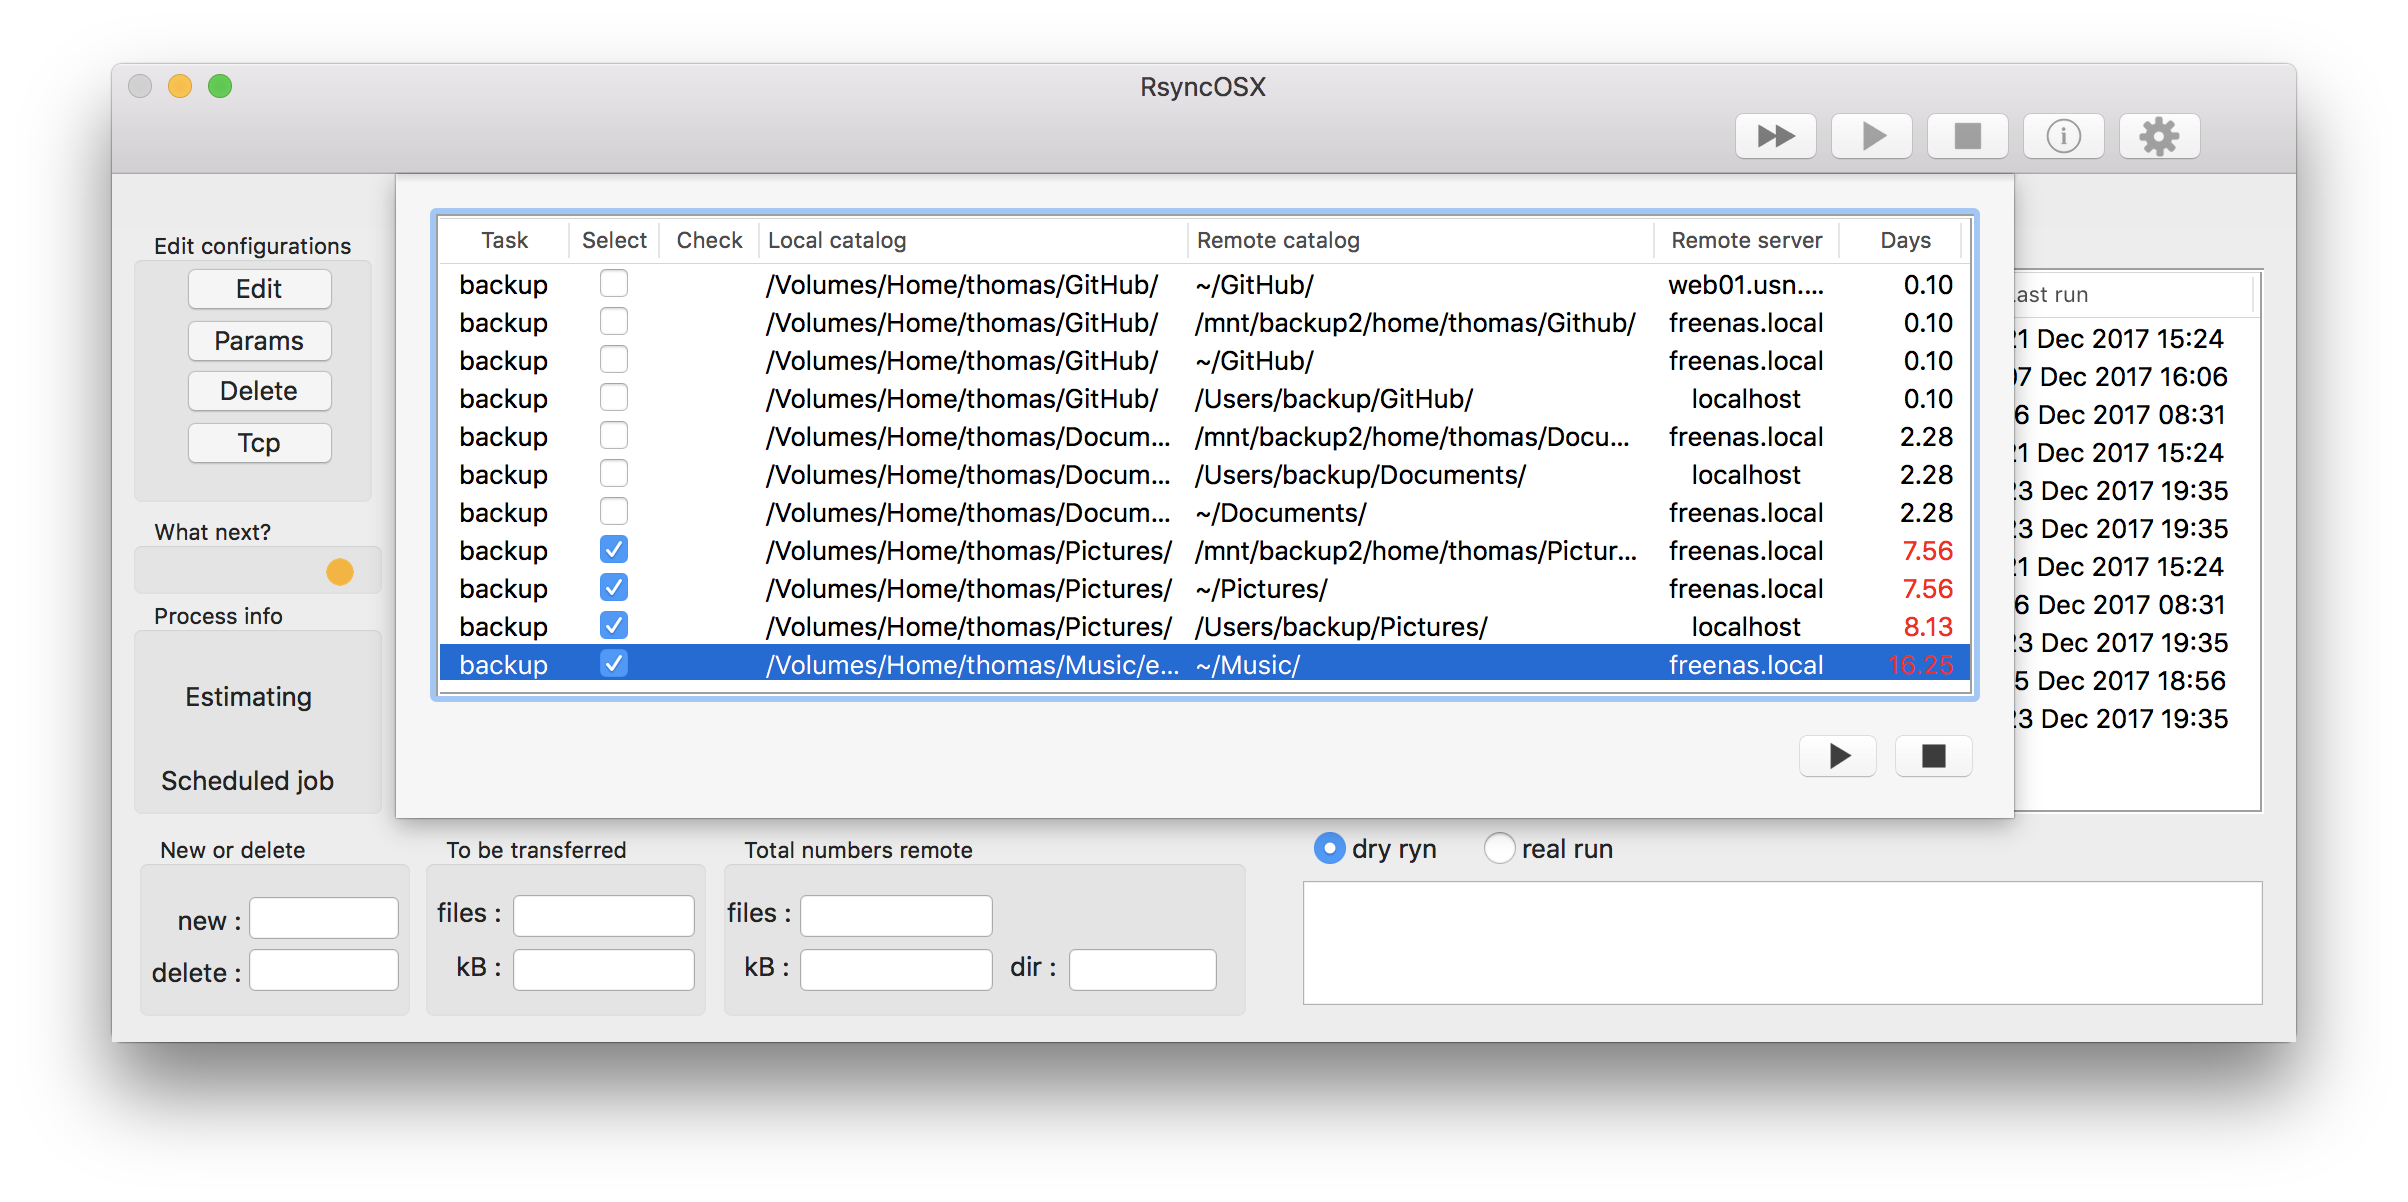
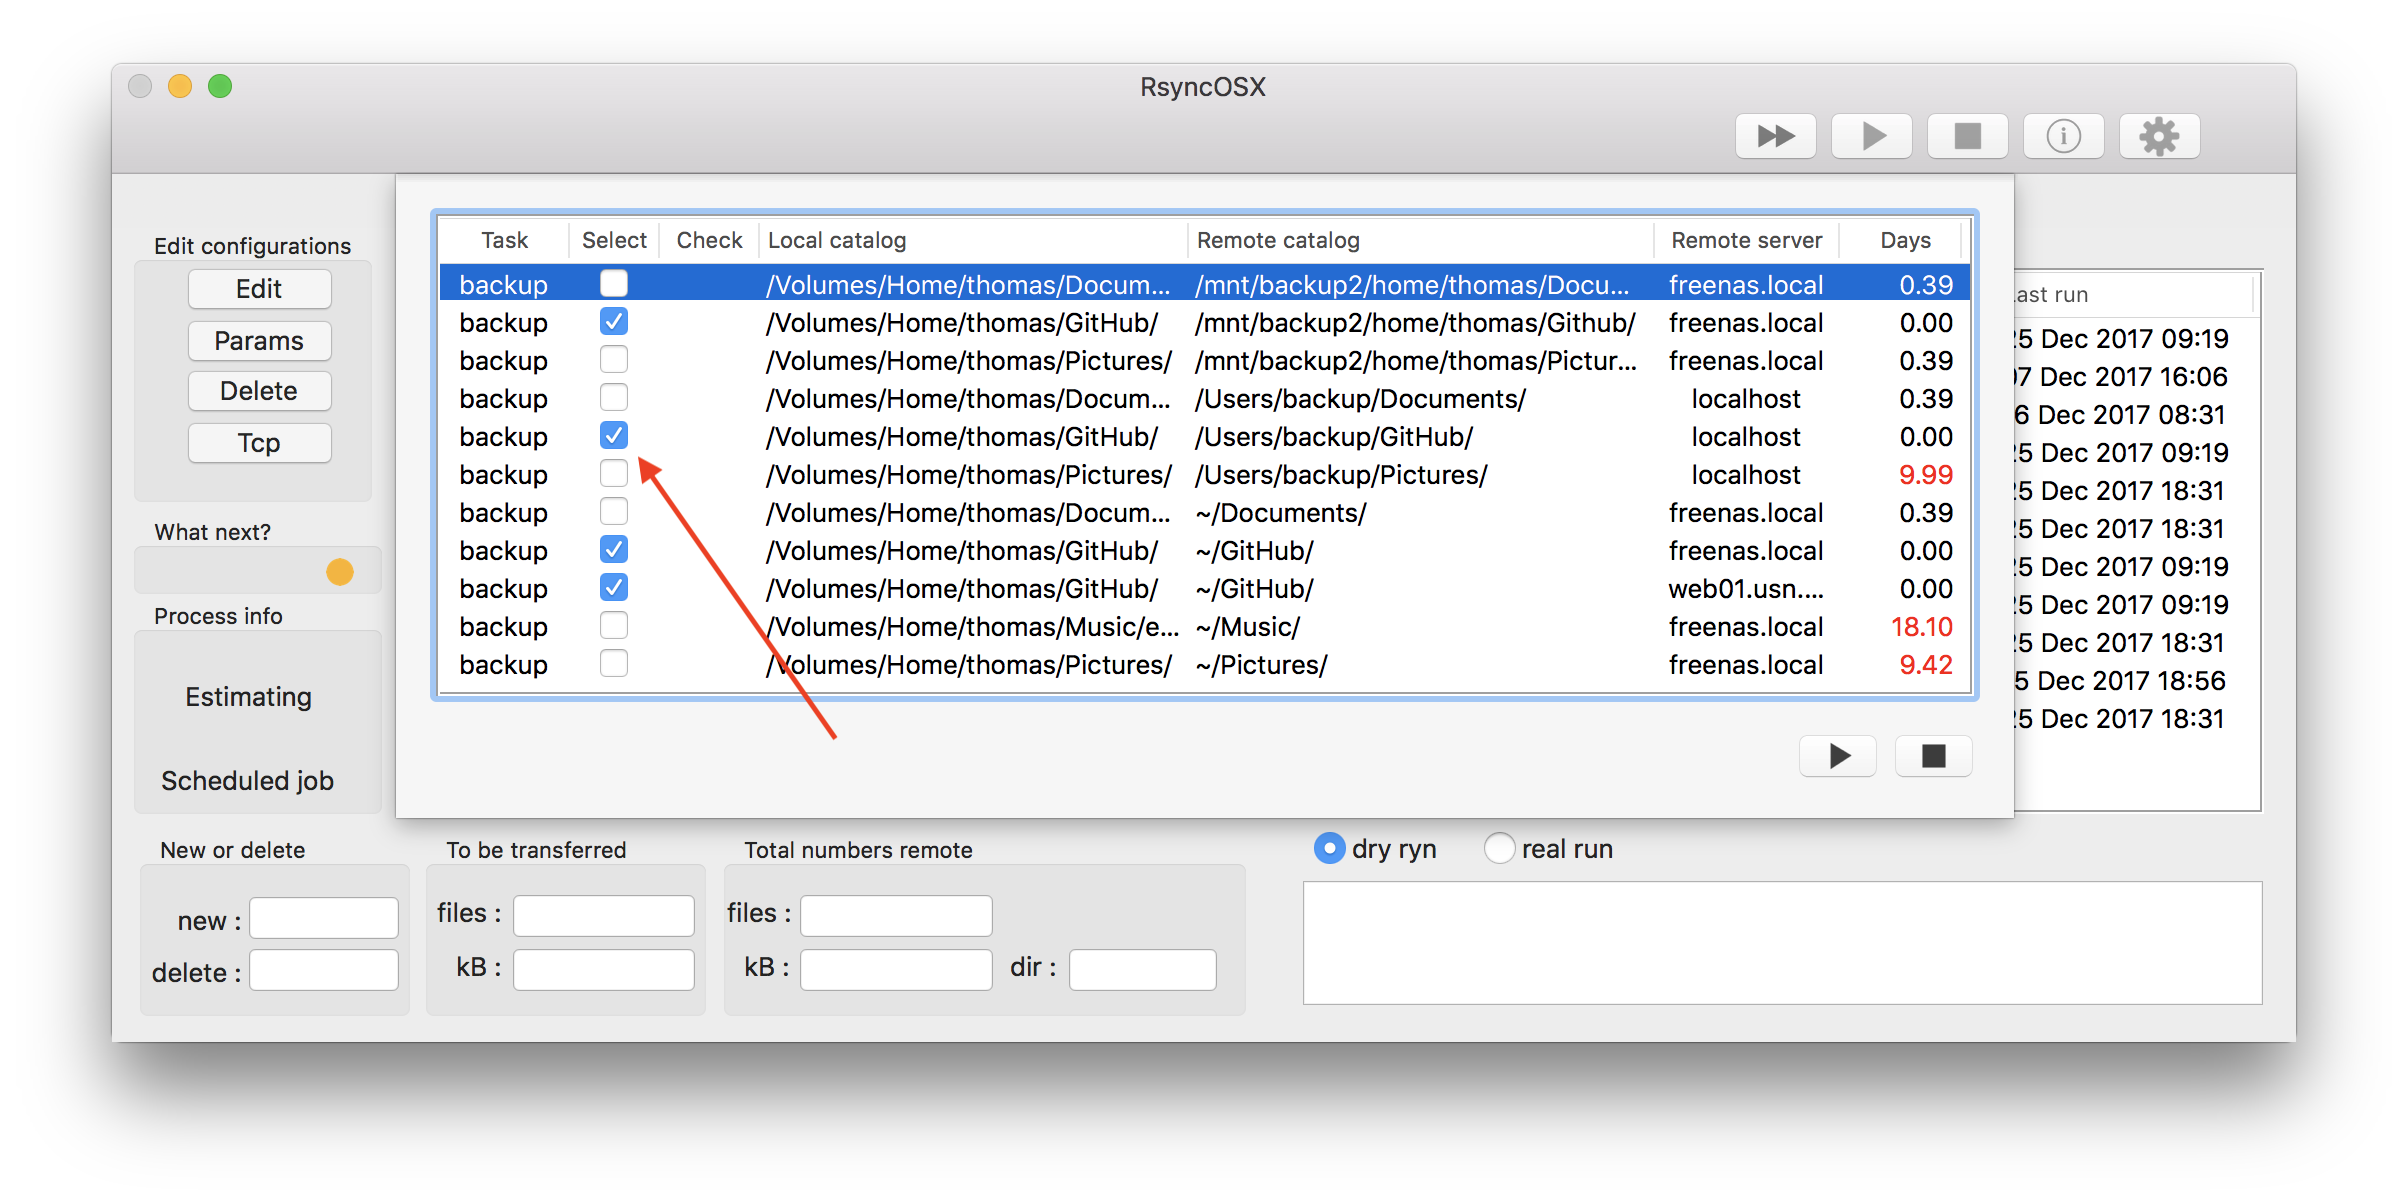
updates

diff --git a/docs/Changelog.md b/docs/Changelog.md
@@ -16,12 +16,10 @@ I have commenced a new project, the new project [RcloneOSX](https://rsyncosx.git
 - new function for quick backups, sort and select which tasks to be executed in one go
 
 ![](screenshots/4.9.5/quickbackup.png)
-Select which tasks to be exectued in one go. List is sorted by days since last execution.
+Select which tasks to be executed in one go. List is sorted by selecting the appropriate column, by local catalog, remote catalog, remote server or days.
 ![](screenshots/4.9.5/select.png)
-Sort by remote catalog.
-![](screenshots/4.9.5/remote.png)
-Sort by remote server.
-![](screenshots/4.9.5/server.png)
+After selection choose execute and tasks are executed. When task is completed the row is marked completed with a check flag.
+![](screenshots/4.9.5/execute.png)
 
 ## Version 4.9.2
 
